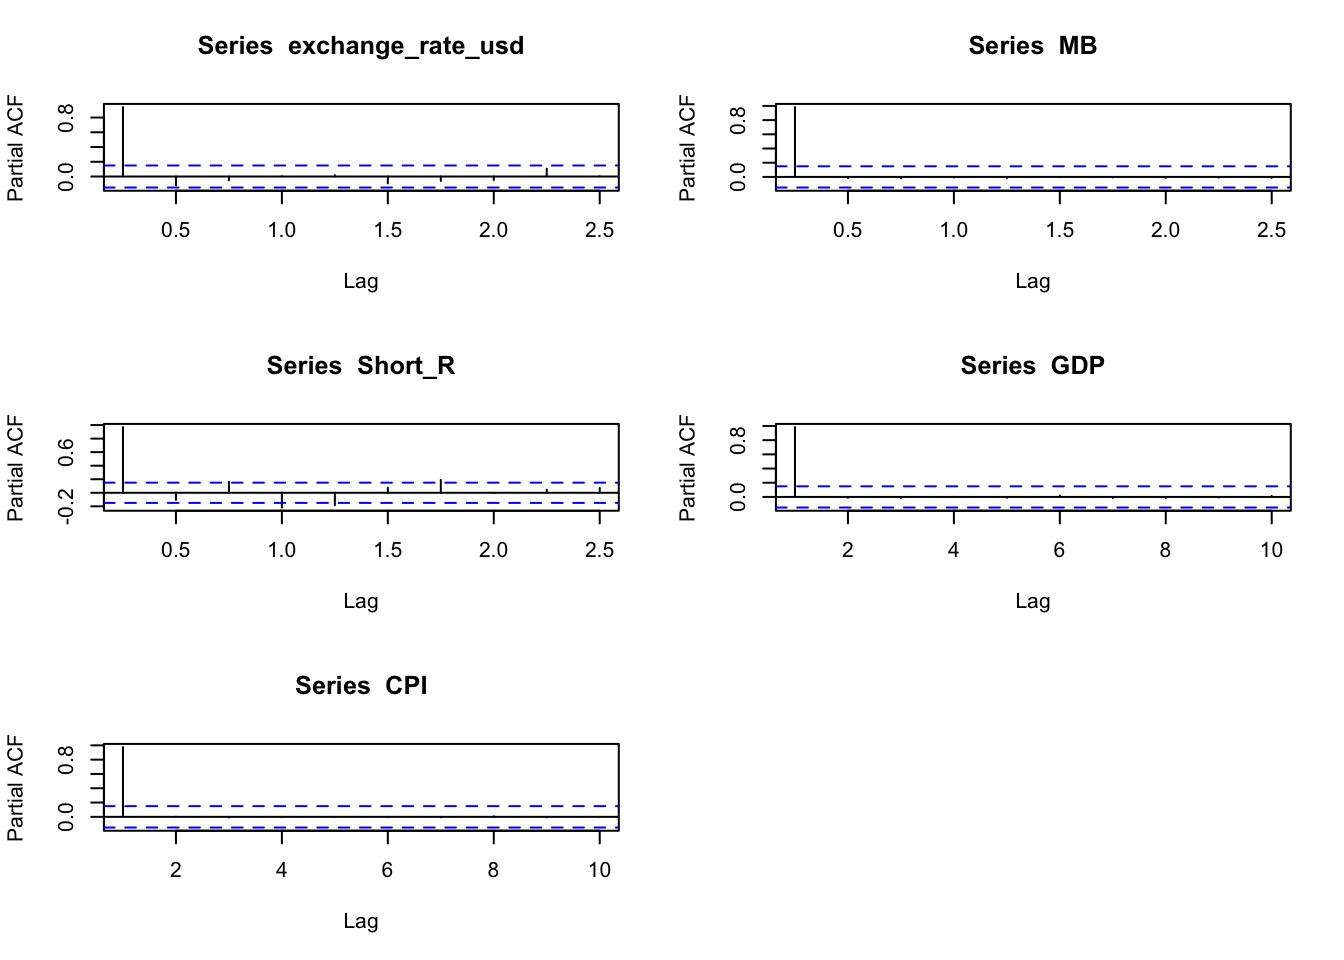
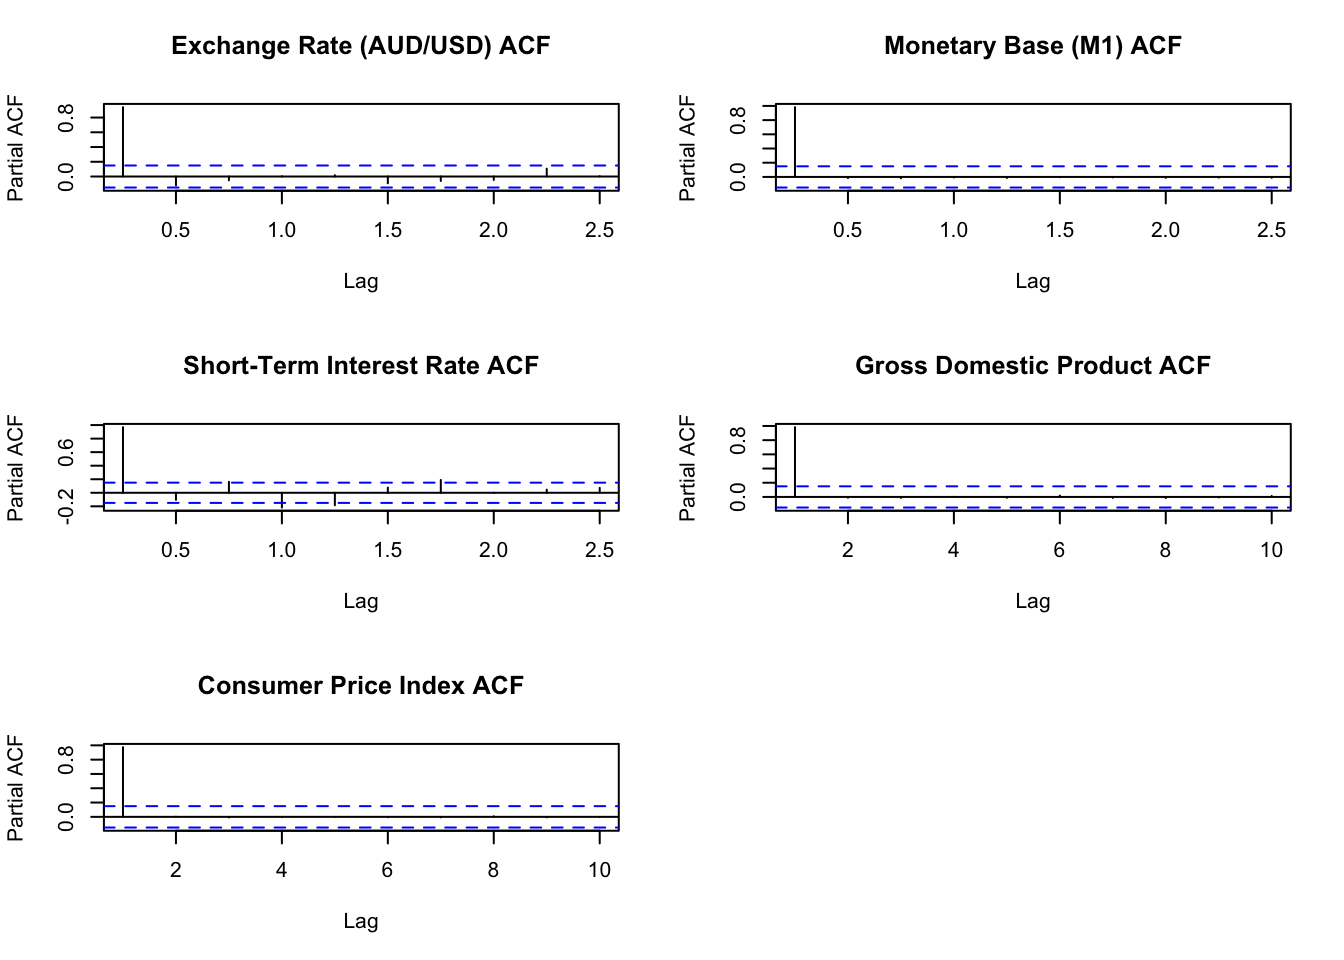
ADF and ACF analysis
ADF test and discription: Investigate its properties and argue on: why they are essential to answer your research question, how they inform or motivate your model equations. #1

diff --git a/docs/index.html b/docs/index.html
@@ -142,20 +142,20 @@ ul.task-list li input[type="checkbox"] {
 <section id="data" class="level1">
 <h1>Data</h1>
 <p>The endogenous variables for the SVAR analysis included: Exchange rate of AUD/USD (ERA), Monetary base M1 (MB), the Bank Accepted Bills/Negotiable Certificates of Deposit-3 months Short–term interest rate (Short_R), Gross Domestic Product (GDP) and Consumer Price Index(CPI). The data are collected from the Reserve Bank of Australia (RBA) and Australian Bureau of Statistics (ABS), adjusted in quarterly frequency and from 1980 Q1 to 2022 Q4, including 172 observations.</p>
-<p>The first variable is the key variable in the analysis of the research, and the other 5 variables are the key monetary variables to identify the monetary shocks in Australia. All variables data have taken Logarithm except short-term interest rate and plotted in <a href="#figure-1.-time-series-plots">Figure 1. Time-series plots</a>.</p>
+<p>The first variable is the key variable in the analysis of the research, and the other 5 variables are the key monetary variables to identify the monetary shocks in Australia. All variables data have taken Logarithm except short-term interest rate and plotted in <a href="#figure-1-time-series-plots">Figure 1: Time-series plots</a>.</p>
 <div class="cell">
 <div class="cell-output-display">
 <p><img src="index_files/figure-html/unnamed-chunk-7-1.png" class="img-fluid" width="672"></p>
 </div>
 </div>
-<section id="figure-1.-time-series-plots" class="level6">
-<h6 class="anchored" data-anchor-id="figure-1.-time-series-plots">Figure 1. Time-series plots</h6>
+<section id="figure-1-time-series-plots" class="level6">
+<h6 class="anchored" data-anchor-id="figure-1-time-series-plots">Figure 1: Time-series plots</h6>
 <p>Exchange rate changes are volatile overtime, exhibits peaks and troughs. Monetary base, GDP and CPI all illustrate increasing trend overtime, with some drops during the global financial crisis and during COVID-19 period. Short-term interest rate displays a downward trend since 2000. All time-series plots are restricted in the time period from 1980 Q1 to 2022 Q4.</p>
-<p><a href="#table-1.-summary-statistics">Table 1. Summary statistics</a> provides statistics summary of all variables from 1980 Q1 to 2022 Q4.</p>
+<p><a href="#table-1-summary-statistics">Table 1: Summary statistics</a> provides statistics summary of all variables from 1980 Q1 to 2022 Q4.</p>
 <div class="cell">
 <div class="cell-output-display">
 <table class="table table-sm table-striped small">
-<caption>Table1.Summary Statistics</caption>
+<caption>Summary Statistics</caption>
 <thead>
 <tr class="header">
 <th style="text-align: left;">variable</th>
@@ -212,30 +212,31 @@ ul.task-list li input[type="checkbox"] {
 </div>
 </div>
 </section>
-<section id="table-1.-summary-statistics" class="level6">
-<h6 class="anchored" data-anchor-id="table-1.-summary-statistics">Table 1. Summary statistics</h6>
+<section id="table-1-summary-statistics" class="level6">
+<h6 class="anchored" data-anchor-id="table-1-summary-statistics">Table 1: Summary statistics</h6>
 </section>
 <section id="preliminary-results" class="level2">
 <h2 class="anchored" data-anchor-id="preliminary-results">Preliminary Results</h2>
-<blockquote class="blockquote">
-<p><strong>ACF plots.</strong></p>
-</blockquote>
+<p><a href="#figure-2-acf-plots">Figure 2: ACF plots</a> shows that for GDP and CPI have non-zero auto correlations for at least 10 lags, for the ERA, MB, Short_R have non-zero auto correlations for at least 2.5 lags.</p>
+<p><a href="#figure-3-pacf-plots">Figure 3: PACF plots</a> shows no statistically significant lags except short-term interest rate. Short-term interest rate has some spikes in lag 1 and 1.75 but not strong.</p>
 <div class="cell">
 <div class="cell-output-display">
 <p><img src="index_files/figure-html/unnamed-chunk-9-1.png" class="img-fluid" width="672"></p>
 </div>
 </div>
-<blockquote class="blockquote">
-<p><strong>PACF plots.</strong></p>
-</blockquote>
+<section id="figure-2-acf-plots" class="level6">
+<h6 class="anchored" data-anchor-id="figure-2-acf-plots">Figure 2: ACF plots</h6>
 <div class="cell">
 <div class="cell-output-display">
 <p><img src="index_files/figure-html/unnamed-chunk-10-1.png" class="img-fluid" width="672"></p>
 </div>
 </div>
-<blockquote class="blockquote">
-<p><strong>ADF Test.</strong></p>
-</blockquote>
+</section>
+<section id="figure-3-pacf-plots" class="level6">
+<h6 class="anchored" data-anchor-id="figure-3-pacf-plots">Figure 3: PACF plots</h6>
+<p>Augmented Dickey-Fuller Test is performed to test for stationarity, the null hypothesis is unit-root non-stationary.</p>
+<p><a href="#table-2-adf-test">Table 2: ADF test</a> shows that for ERA, MB, GDP, we can not reject the null hypothesis at 5% significant level and considered as unit-root non-stationary. Short-term interest rate and CPI can reject the null at 5% significant level and considered as unit-root stationary.</p>
+<p><a href="#table-3-adf-test-of-first-difference">Table 3: ADF test of First Difference</a> shows the first difference of all variables, ERA, MB, GDP can reject the null at 5% significant level and considered as unit-root stationary at first order condition, they are integrated of order 1.</p>
 <div class="cell">
 <div class="cell-output-display">
 <table class="table table-sm table-striped small">
@@ -283,10 +284,13 @@ ul.task-list li input[type="checkbox"] {
 </table>
 </div>
 </div>
+</section>
+<section id="table-2-adf-test" class="level6">
+<h6 class="anchored" data-anchor-id="table-2-adf-test">Table 2: ADF test</h6>
 <div class="cell">
 <div class="cell-output-display">
 <table class="table table-sm table-striped small">
-<caption>ADF test of first difference</caption>
+<caption>ADF test of First Difference</caption>
 <thead>
 <tr class="header">
 <th style="text-align: left;"></th>
@@ -330,7 +334,10 @@ ul.task-list li input[type="checkbox"] {
 </table>
 </div>
 </div>
-<p>The <code>echo: false</code> option disables the printing of code (only output is displayed).</p>
+</section>
+<section id="table-3-adf-test-of-first-difference" class="level6">
+<h6 class="anchored" data-anchor-id="table-3-adf-test-of-first-difference">Table 3: ADF test of First Difference</h6>
+</section>
 </section>
 <section id="model-specification" class="level2">
 <h2 class="anchored" data-anchor-id="model-specification">Model Specification</h2>
